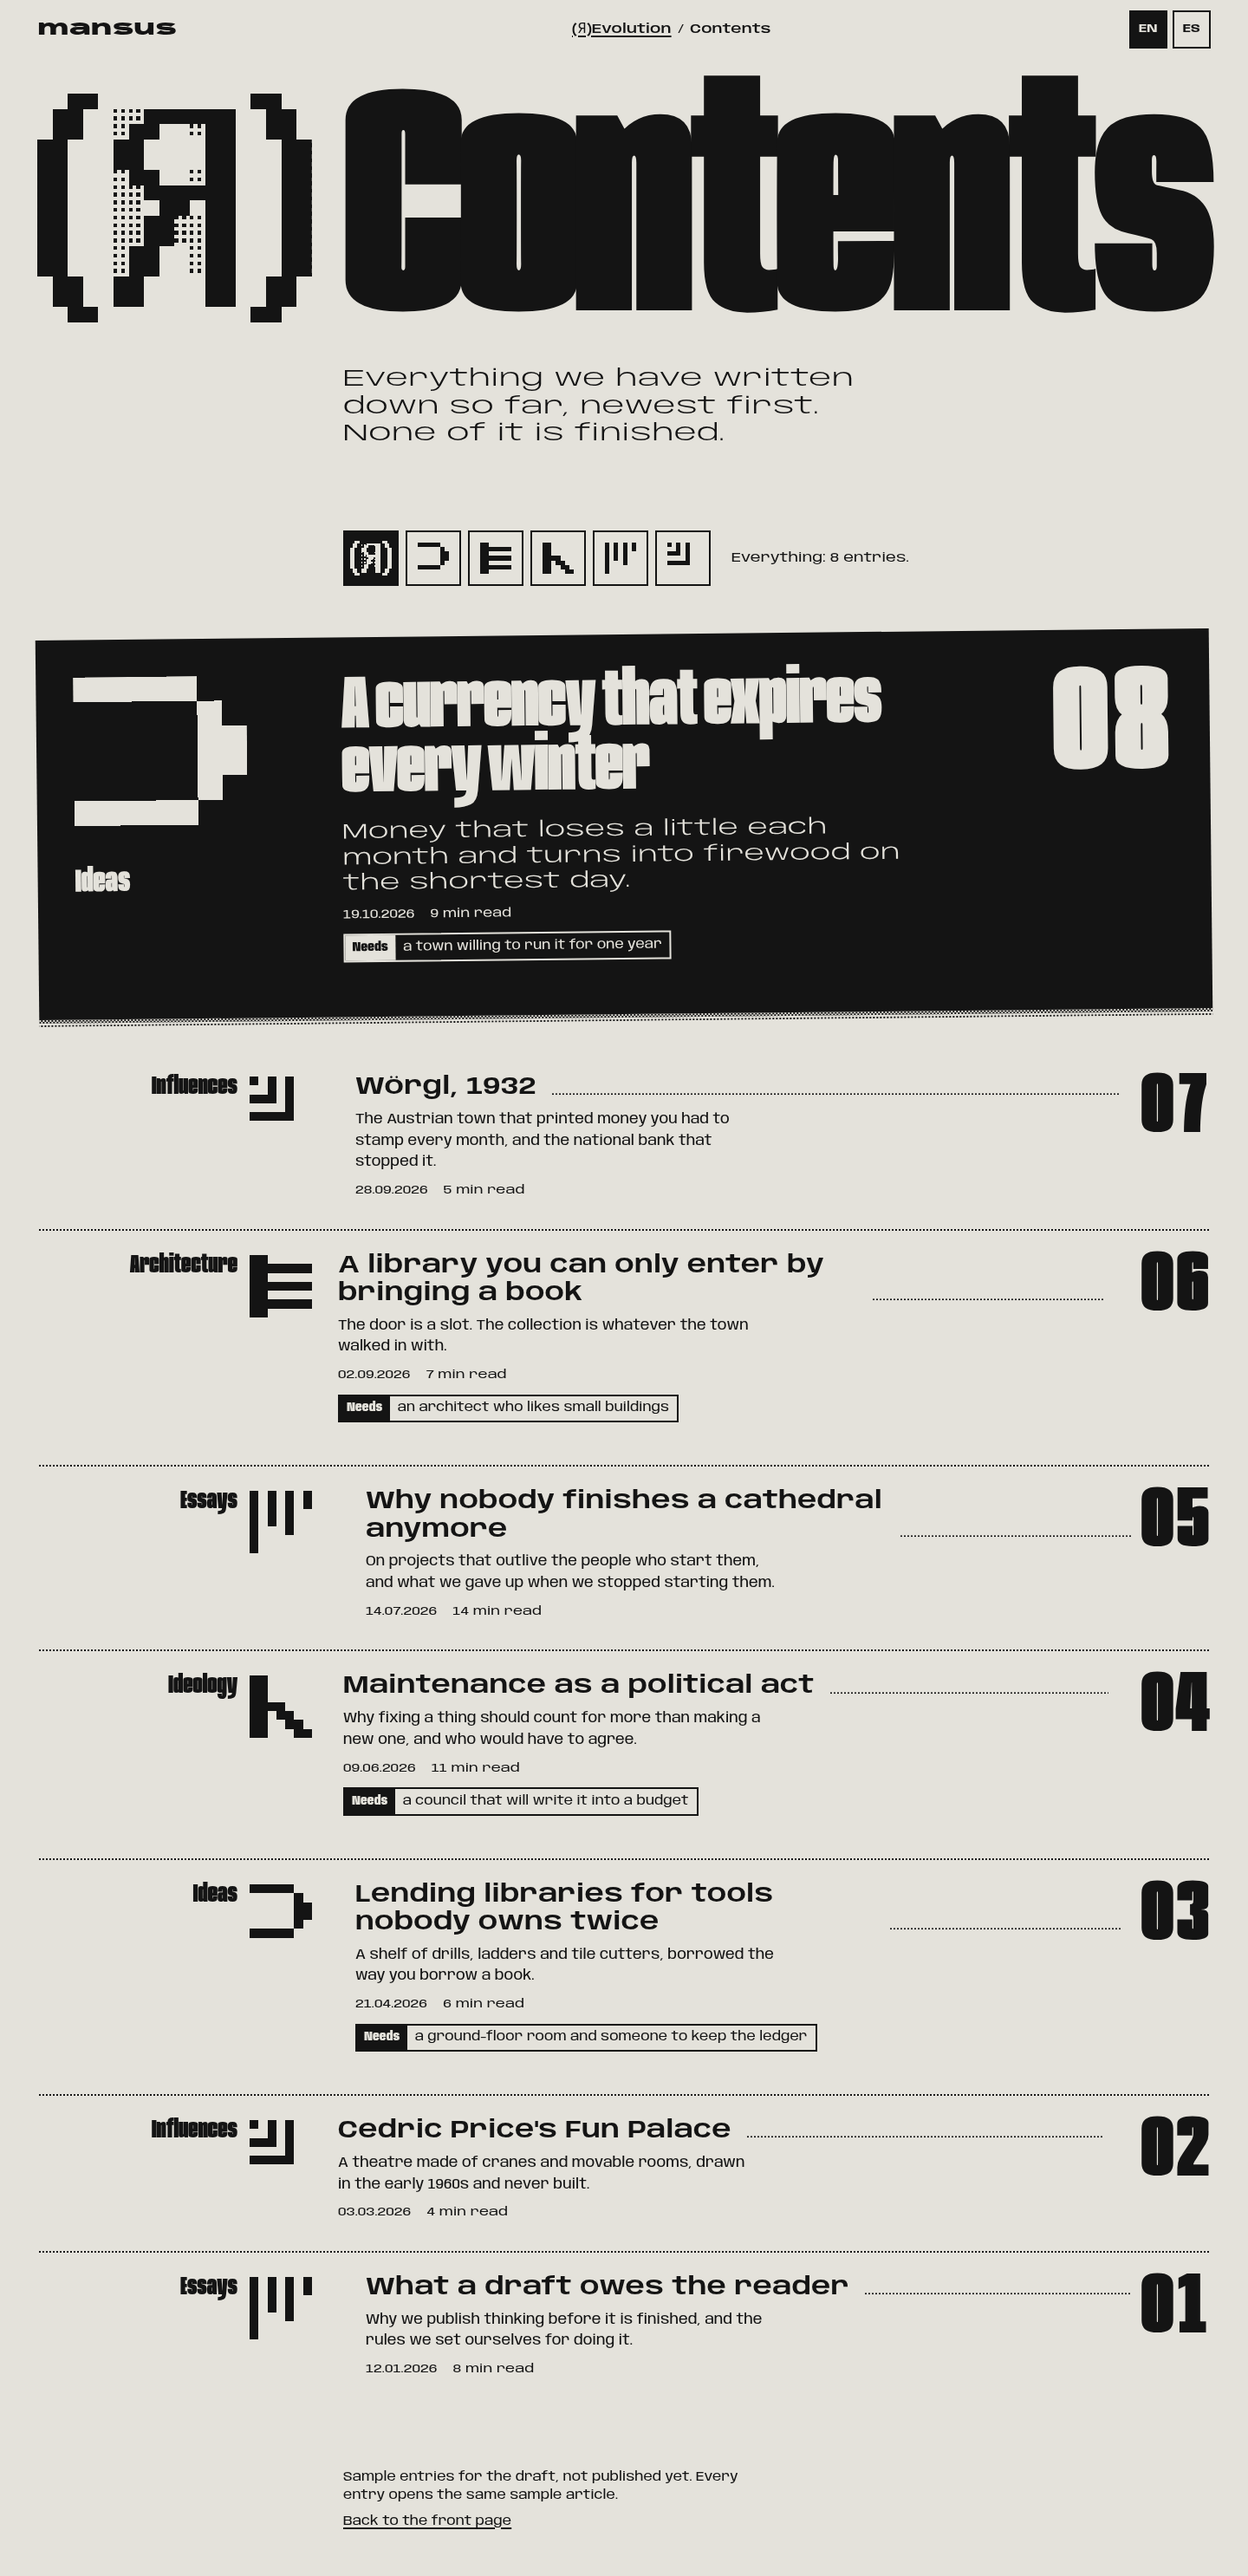
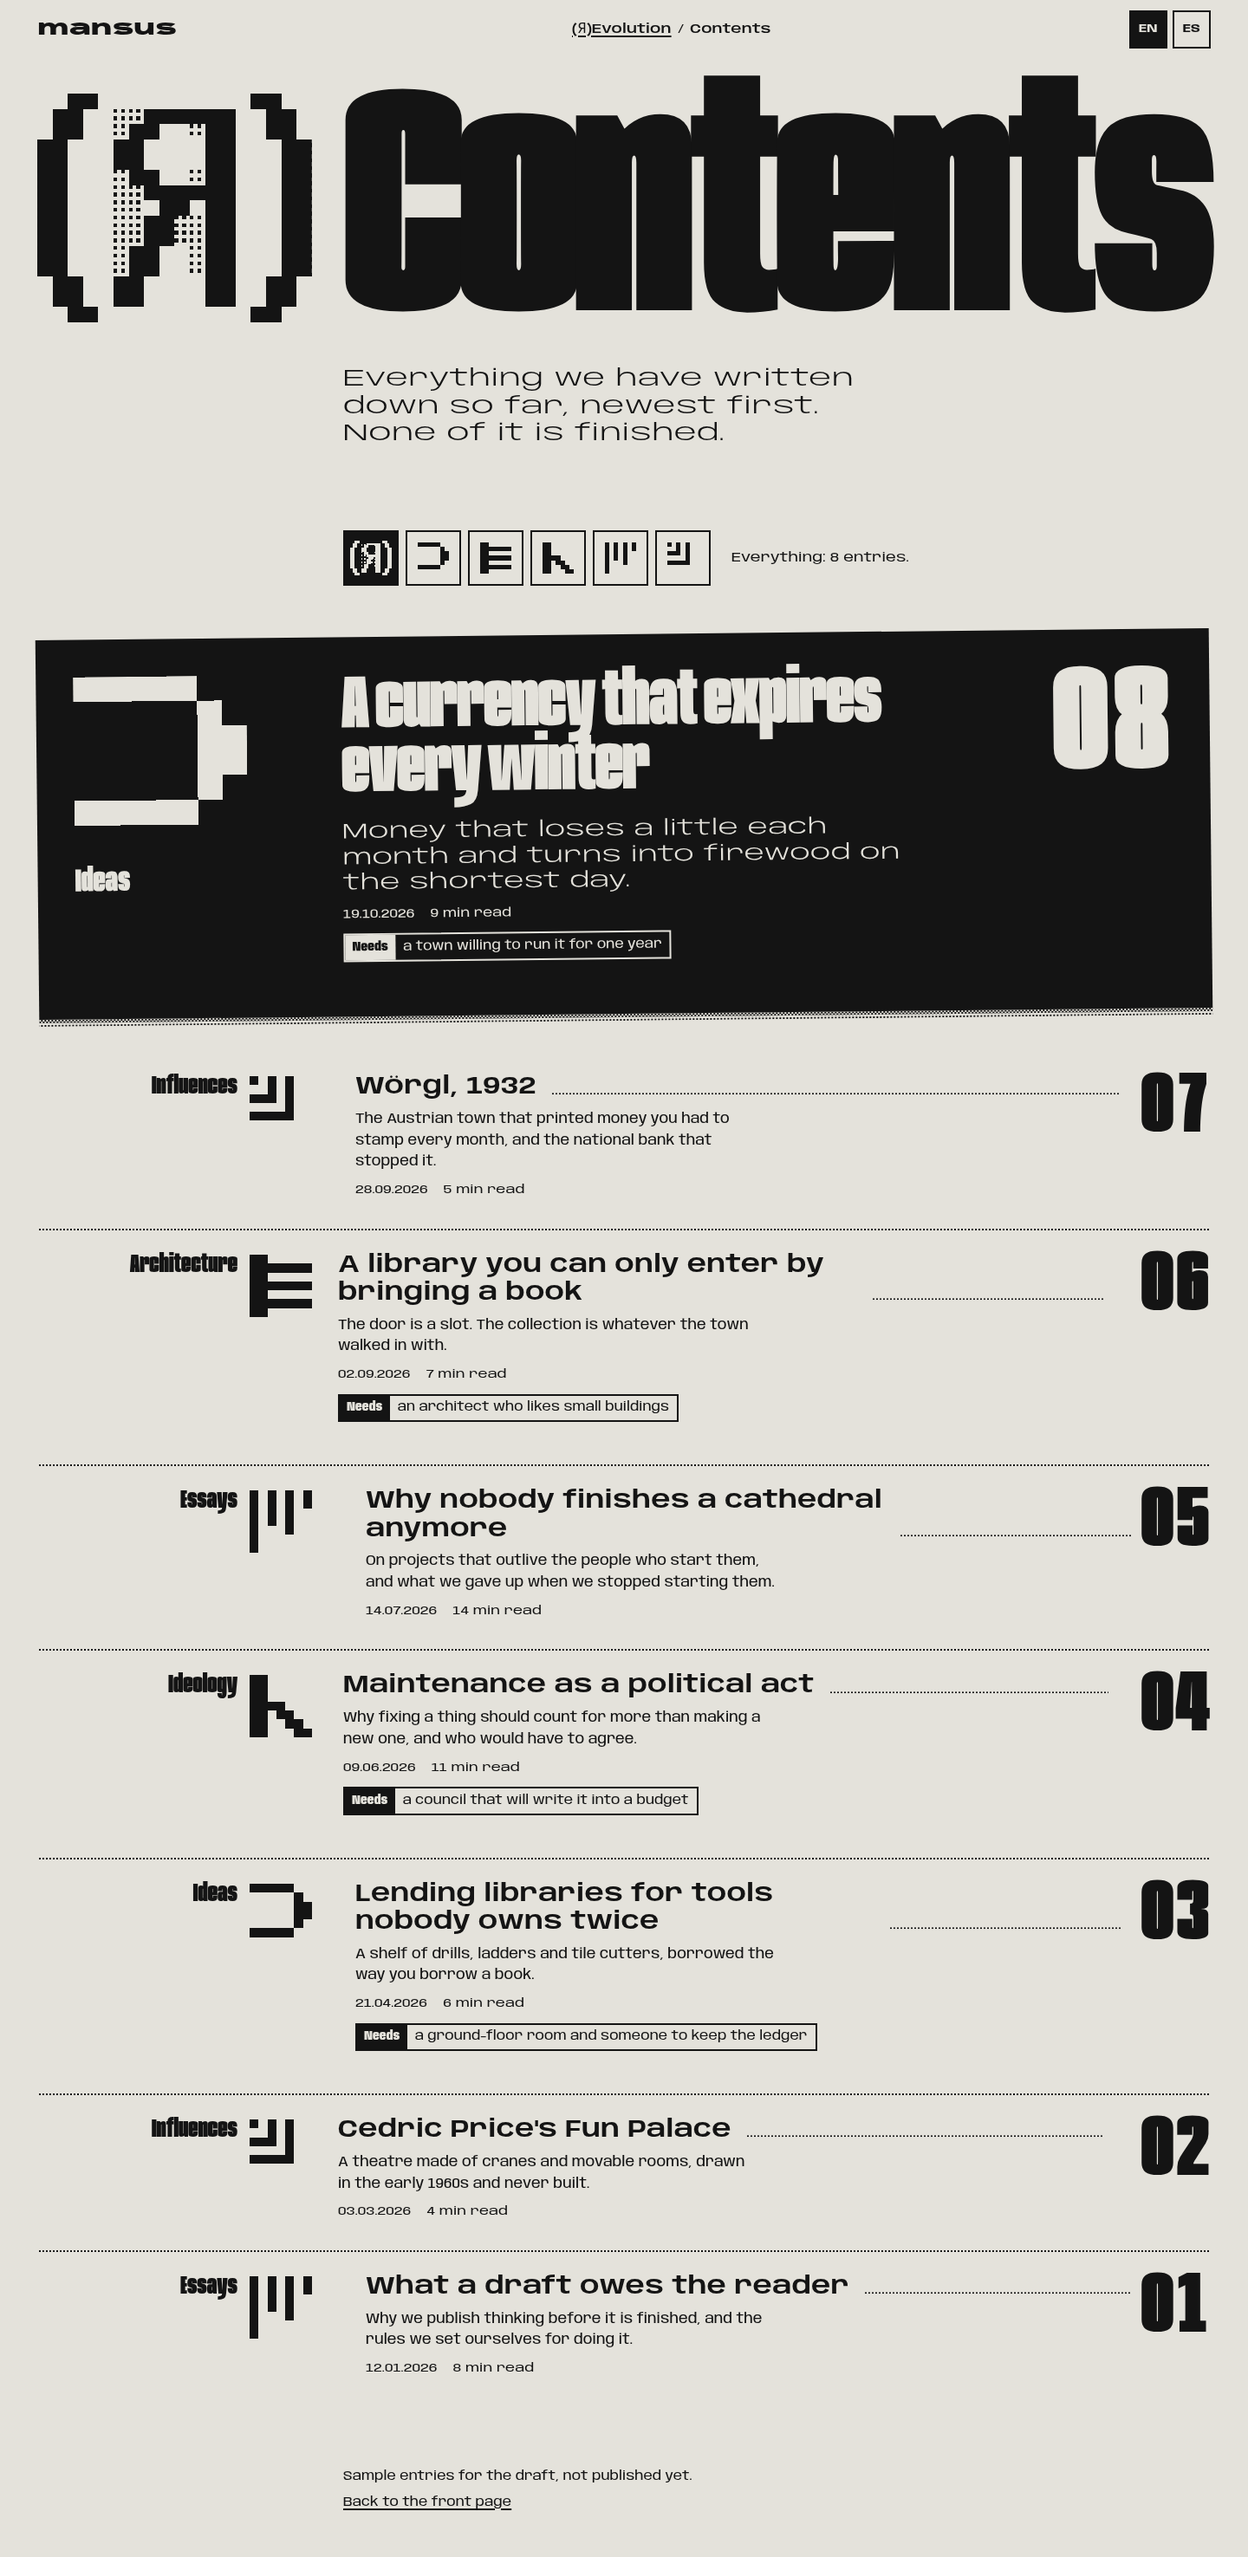
BRAIN-44 Refresh screenshots from the built site; point design notes at src/

diff --git a/design/README.md b/design/README.md
@@ -1,16 +1,15 @@
-# (Я)Evolution, design draft
+# (Я)Evolution, design notes
 
-A visual draft for review, not the production site. Three pages, linked to each other:
+Why the site looks the way it does. The pages are now generated by Eleventy from markdown (see the
+root `README.md`); this file keeps the reasoning behind the design.
 
-- `landing/index.html`: the front page, the letter turning around.
-- `articles/index.html`: the contents.
-- `articles/currency-that-expires.html`: one article opened, to judge long text.
+- Landing: `src/index.njk`, styles `src/assets/landing.css`, script `src/assets/landing.js`.
+- Contents: `src/contents.njk`.
+- Article: `src/_includes/layouts/article.njk`, one markdown file per article in `src/articles/`.
+- Shared: `src/assets/base.css` (palette, type, chrome), `bitmap.js` (the R, the Я, the five signs
+  and the dither), `lang.js` (the EN/ES switch, remembered across pages), `articles.css/js`.
 
-Plain HTML, CSS and a little script, Google Fonts only, no build step. Shared pieces live in
-`shared/`: `base.css` (palette, type, chrome), `bitmap.js` (the R, the Я, the five signs and the
-dither) and `lang.js` (the EN/ES switch, remembered across pages).
-
-Screenshots in `screenshots/`, desktop at 1440 wide and mobile at 390 wide:
+Screenshots of the built site in `screenshots/`, desktop at 1440 wide and mobile at 390 wide:
 `revolution-landing-*`, `revolution-articles-*` (contents) and `revolution-article-*`.
 
 This replaces the first draft (iPod menu, serif newspaper layout), which the client rejected.
@@ -113,8 +112,8 @@ Bullets are single square pixels. The "Needs" line is a rubber stamp: a black la
 phrase. The dither tiles (checkerboard and one in four) are CSS conic-gradient patterns at 2 px
 cells. They are used as halftone texture, never as a colour gradient.
 
-**Content.** Entries, dates and reading times are samples, and the page says so. Every entry opens
-the same sample article. The article is draft copy for layout review. Its history (Gesell, Wörgl
+**Content.** Entries are samples (`sample: true`), and the pages say so. Each one has its own
+stub page. The article is draft copy for layout review. Its history (Gesell, Wörgl
 1932, the Keynes line from chapter 23 of the *General Theory*) is real and kept to what the
 standard accounts agree on. The scheme's numbers are the proposal's own, not claims. The body is
 English only. In Spanish the page says so and keeps the chrome, title and dek translated.
@@ -123,6 +122,6 @@ English only. In Spanish the page says so and keeps the chrome, title and dek tr
 
 - No call to action link: there is no confirmed contact or submission address to point at.
 - Real wordmark and real entries to be supplied by Mansus.
-- Only one article page exists; the other contents entries all open it.
+- Only one article is written out; the other entries are short stubs.
 - The article body has no Spanish translation yet.
 - The figure is a generated placeholder; the real image would go through the same 1-bit treatment.
